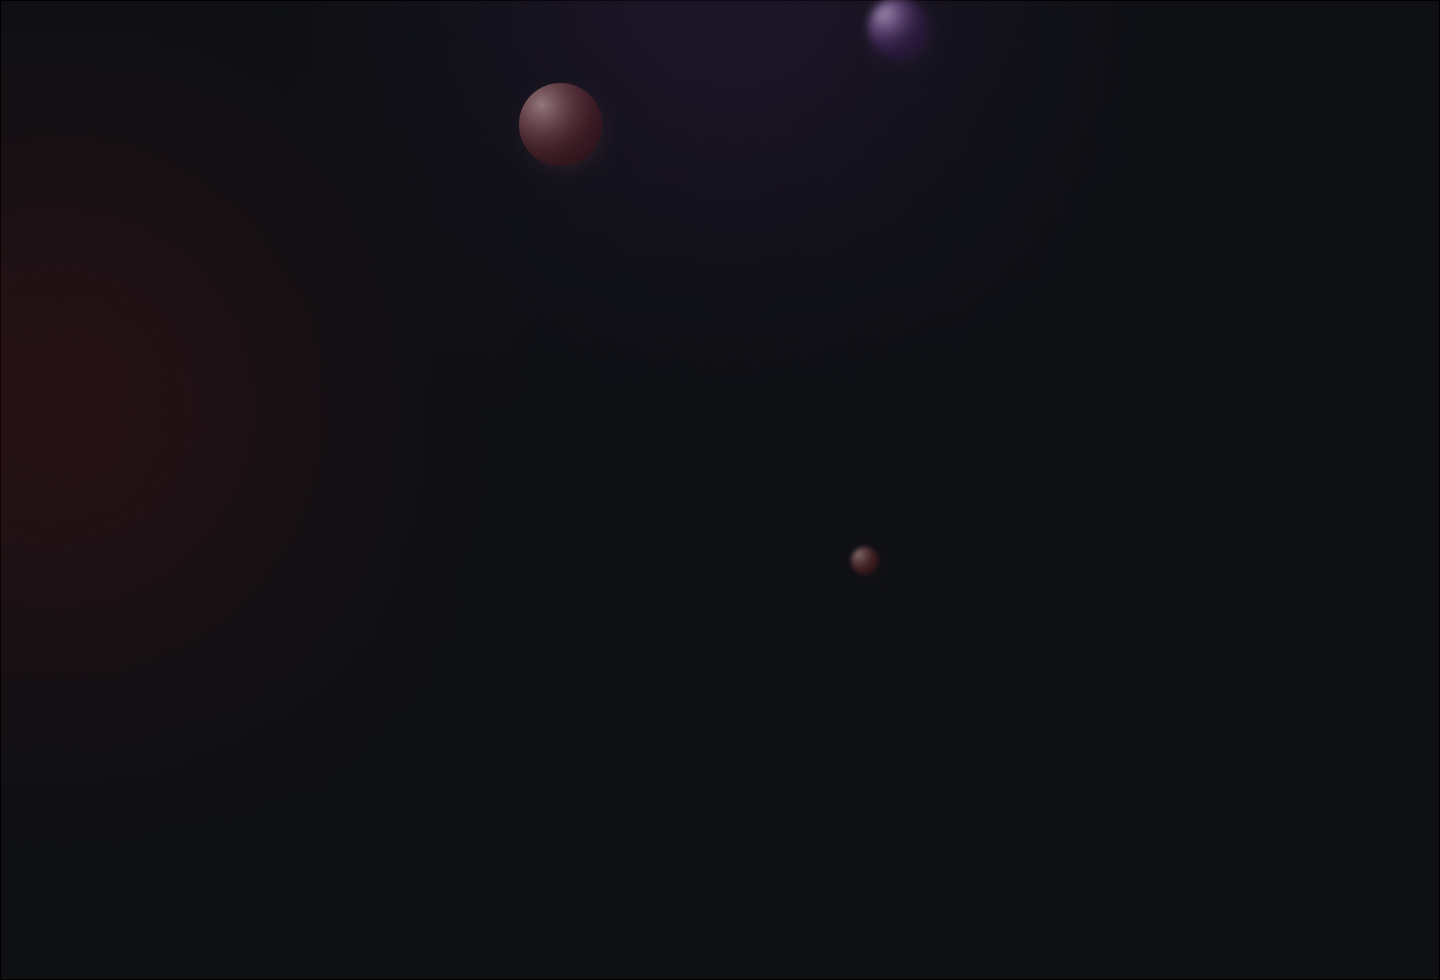
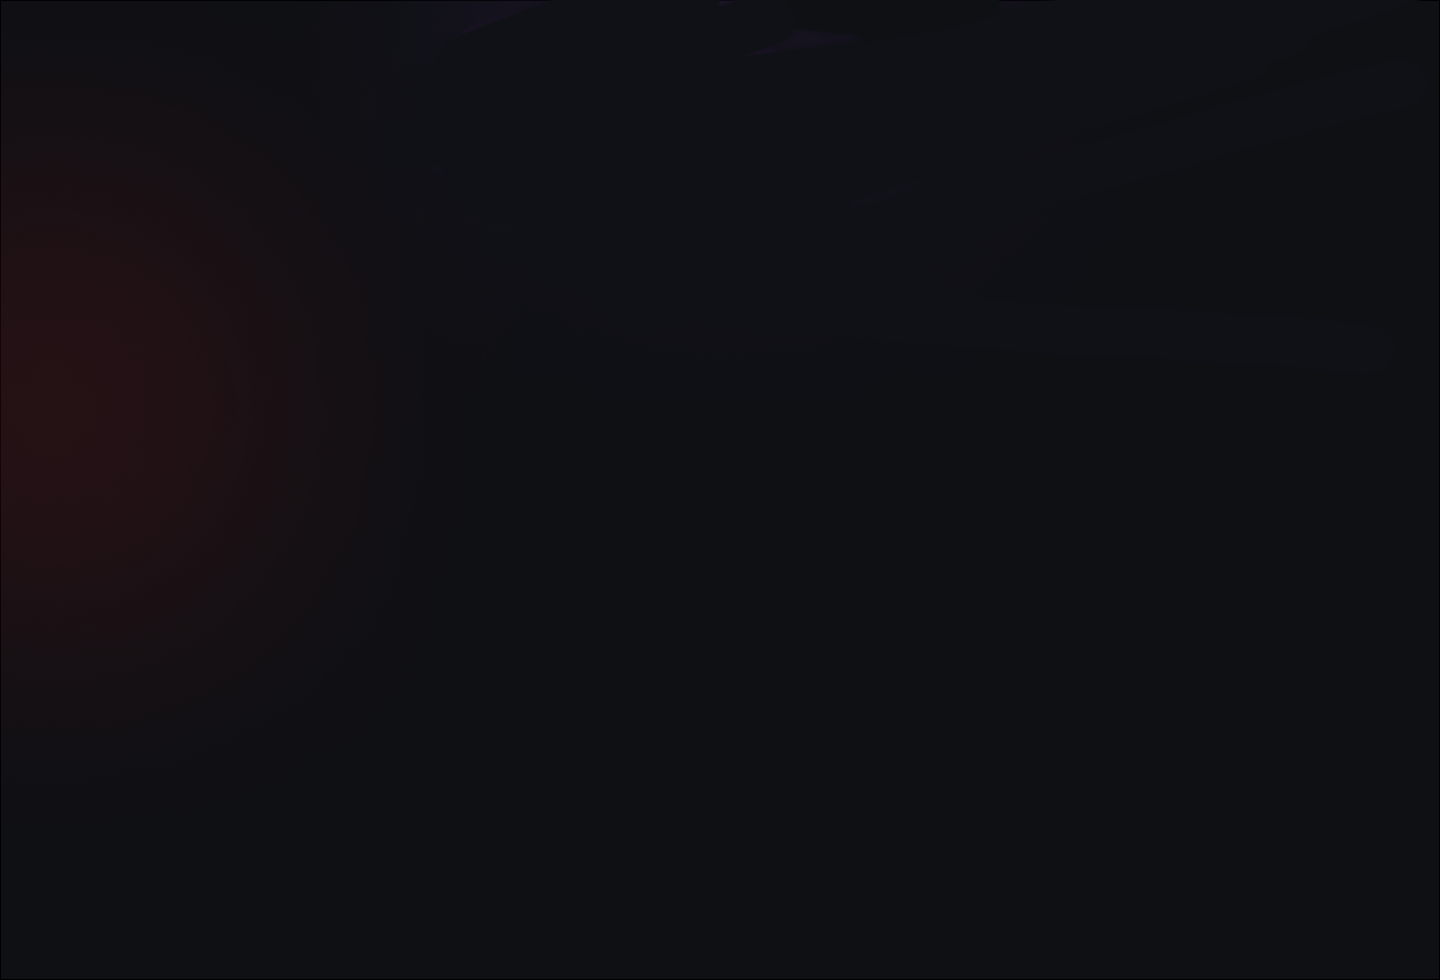
feat: create bvalls animation

Changed region(s): [[0.3438, 0.0612, 0.4375, 0.1837], [0.5938, 0.0, 0.6562, 0.0612], [0.5938, 0.551, 0.625, 0.5816]]

diff --git a/src/styles.scss b/src/styles.scss
@@ -1,6 +1,7 @@
 @import url("https://fonts.googleapis.com/css2?family=Inter:wght@100;300;400;500;600;700;800;900&family=Montserrat:wght@100;200;300;400;500;600;700;800;900&display=swap");
 
 .body {
+  position: relative;
   min-height: 100vh;
   max-width: 1140px;
   display: flex;
@@ -57,6 +58,95 @@
   }
 }
 
+.ball {
+  position: absolute;
+  border-radius: 100%;
+  opacity: 0.7;
+  z-index: -1;
+
+  &--1 {
+    top: 7vh;
+    right: 48vw;
+    animation: ball1 10s infinite;
+  }
+  &--2 {
+    top: 6vh;
+    right: 33vw;
+    animation: ball2 7s infinite;
+  }
+  &--3 {
+    top: 66vh;
+    right: 35vw;
+    animation: ball3 8s infinite;
+  }
+  &--4 {
+    top: 33vh;
+    left: 0vw;
+    animation: ball4 12s infinite;
+  }
+}
+
+@keyframes ball1 {
+  0% {
+    top: 7vh;
+    right: 48vw;
+  }
+
+  50% {
+    top: 7vh;
+    right: 67vw;
+  }
+  100% {
+    top: 7vh;
+    right: 48vw;
+  }
+}
+@keyframes ball2 {
+  0% {
+    top: 6vh;
+    right: 33vw;
+  }
+
+  50% {
+    top: 16vh;
+    right: 33vw;
+  }
+  100% {
+    top: 6vh;
+    right: 33vw;
+  }
+}
+@keyframes ball3 {
+  0% {
+    top: 66vh;
+    right: 35vw;
+  }
+
+  50% {
+    top: 66vh;
+    right: 55vw;
+  }
+  100% {
+    top: 66vh;
+    right: 35vw;
+  }
+}
+@keyframes ball4 {
+  0% {
+    top: 33vh;
+    left: 0vw;
+  }
+
+  50% {
+    top: 47vh;
+    left: 0vw;
+  }
+  100% {
+    top: 33vh;
+    left: 0vw;
+  }
+}
+
 @media only screen and (min-width: 0px) and (max-width: 1200px) {
   body {
     background: black;
@@ -82,6 +172,9 @@
     background-image: url("/bg-mobile.png");
     background-position: left bottom;
     background-size: cover;
+  }
+  .ball {
+    display: none;
   }
   .desktop {
     display: none;

diff --git a/src/components/ui/Socials/socials.scss b/src/components/ui/Socials/socials.scss
@@ -11,12 +11,13 @@
   width: 16px;
   height: 16px;
   background-repeat: no-repeat;
+  transition: all 0.2s ease-in;
+  transition-property: all;
+
   & svg:hover path,
   polygon,
   circle {
     fill: rgb(249, 137, 0);
-
-    transition: all 0.2s ease-in;
   }
 }
 // svg:hover path,
@@ -28,21 +29,21 @@
 //   transition: all 0.2s ease-in;
 // }
 
-.socials__item:hover + svg {
-  fill: orange;
-}
+// .socials__item:hover + svg {
+//   fill: orange;
+// }
 
-.socials__item--telegram {
-  // -webkit-filter: hue-rotate(250deg) saturate(10);
-  // filter: hue-rotate(250deg) saturate(10);
-  background-image: url("/telegram.svg");
-  // background-color: orange;
-  // -webkit-mask-image: url("/telegram.svg") no-repeat 50% 50%;
-  // mask-image: url("/telegram.svg") no-repeat 50% 50%;
-}
-.socials__item--viber {
-  background-image: url("/viber.svg");
-}
-.socials__item--whatsapp {
-  background-image: url("/whatsapp.svg");
-}
+// .socials__item--telegram {
+//   // -webkit-filter: hue-rotate(250deg) saturate(10);
+//   // filter: hue-rotate(250deg) saturate(10);
+//   background-image: url("/telegram.svg");
+//   // background-color: orange;
+//   // -webkit-mask-image: url("/telegram.svg") no-repeat 50% 50%;
+//   // mask-image: url("/telegram.svg") no-repeat 50% 50%;
+// }
+// .socials__item--viber {
+//   background-image: url("/viber.svg");
+// }
+// .socials__item--whatsapp {
+//   background-image: url("/whatsapp.svg");
+// }

diff --git a/src/pages/Main/Main.jsx b/src/pages/Main/Main.jsx
@@ -21,6 +21,18 @@ const Main = () => {
       {/* </div> */}
       {/* <div className="container"> */}
       <Footer />
+      <div className="ball ball--1">
+        <img src="balls/red-ball.png" alt="" />
+      </div>
+      <div className="ball ball--2">
+        <img src="balls/purple-ball.png" alt="" />
+      </div>
+      <div className="ball ball--3">
+        <img src="balls/ball3.png" alt="" />
+      </div>
+      {/* <div className="ball ball--4">
+        <img src="balls/red-light.png" alt="" />
+      </div> */}
       {/* </div> */}
     </>
     // </div>

diff --git a/src/components/ui/NavLink/NavLink.scss b/src/components/ui/NavLink/NavLink.scss
@@ -6,10 +6,10 @@
   font-weight: 400;
   font-size: 16px;
   line-height: 19px;
+  transition: all 0.2s ease-in-out;
   &:hover {
     fill: orange;
     color: orange;
-    transition: color 0.2s ease-in;
   }
 }
 
